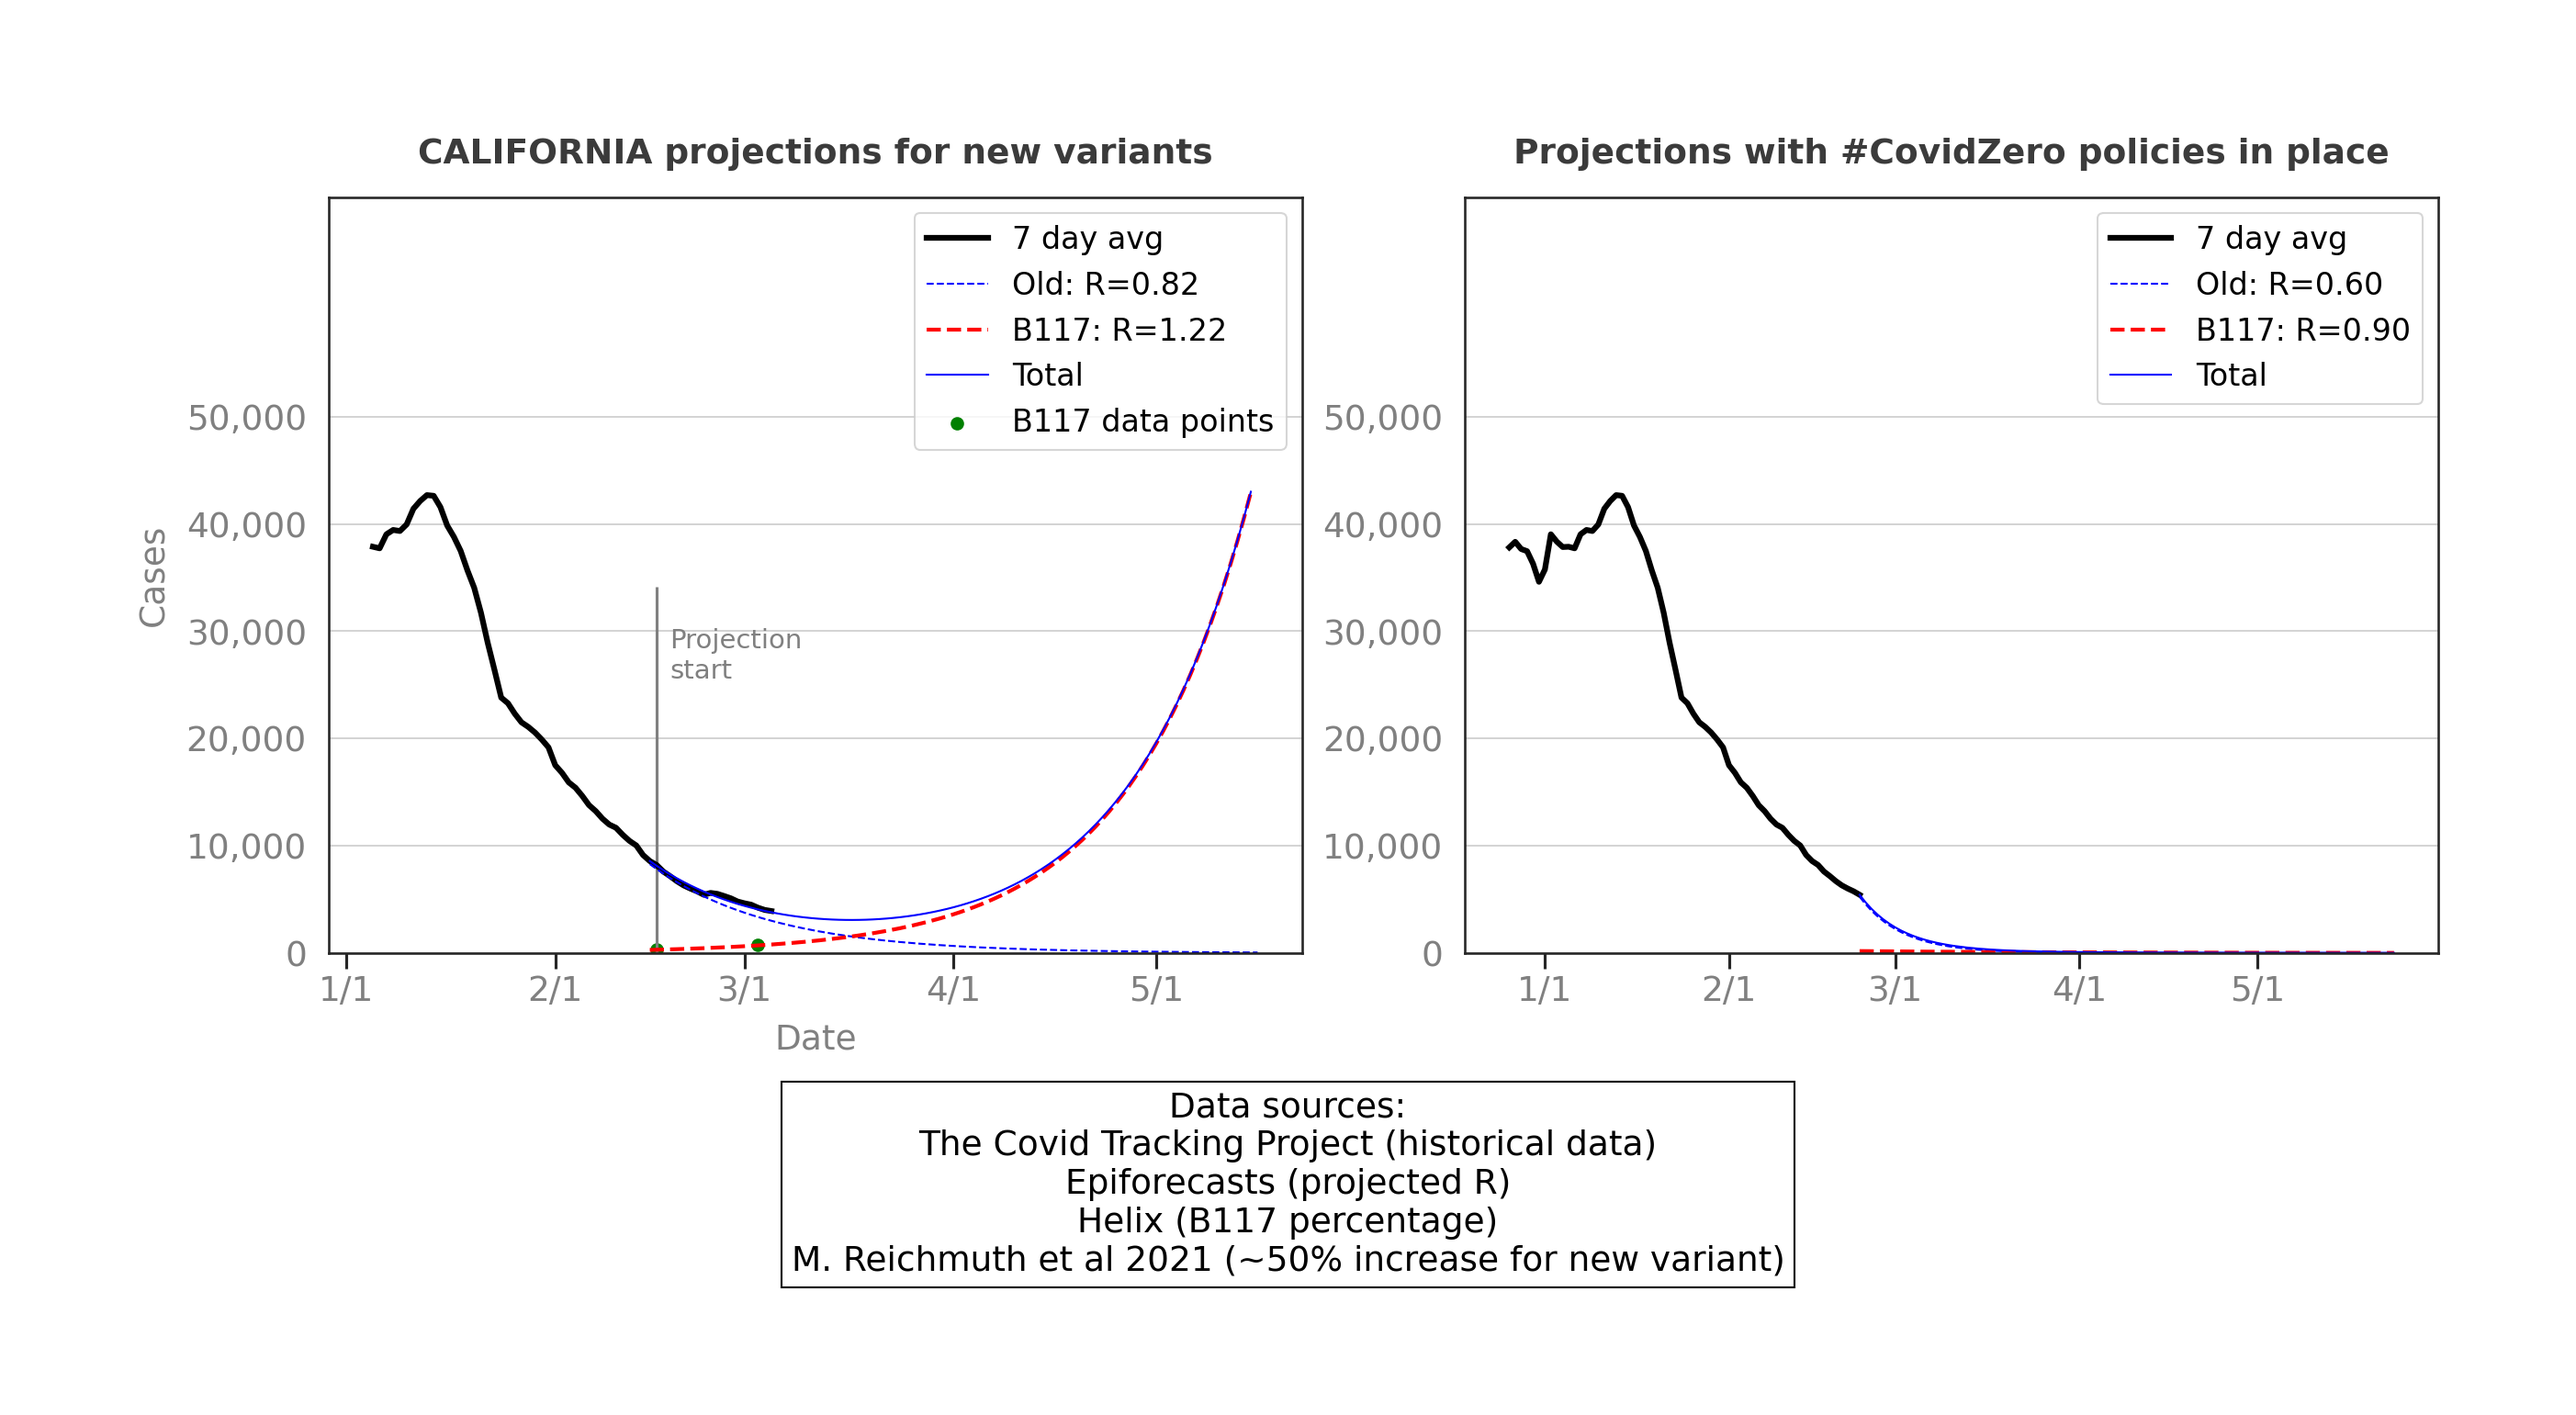
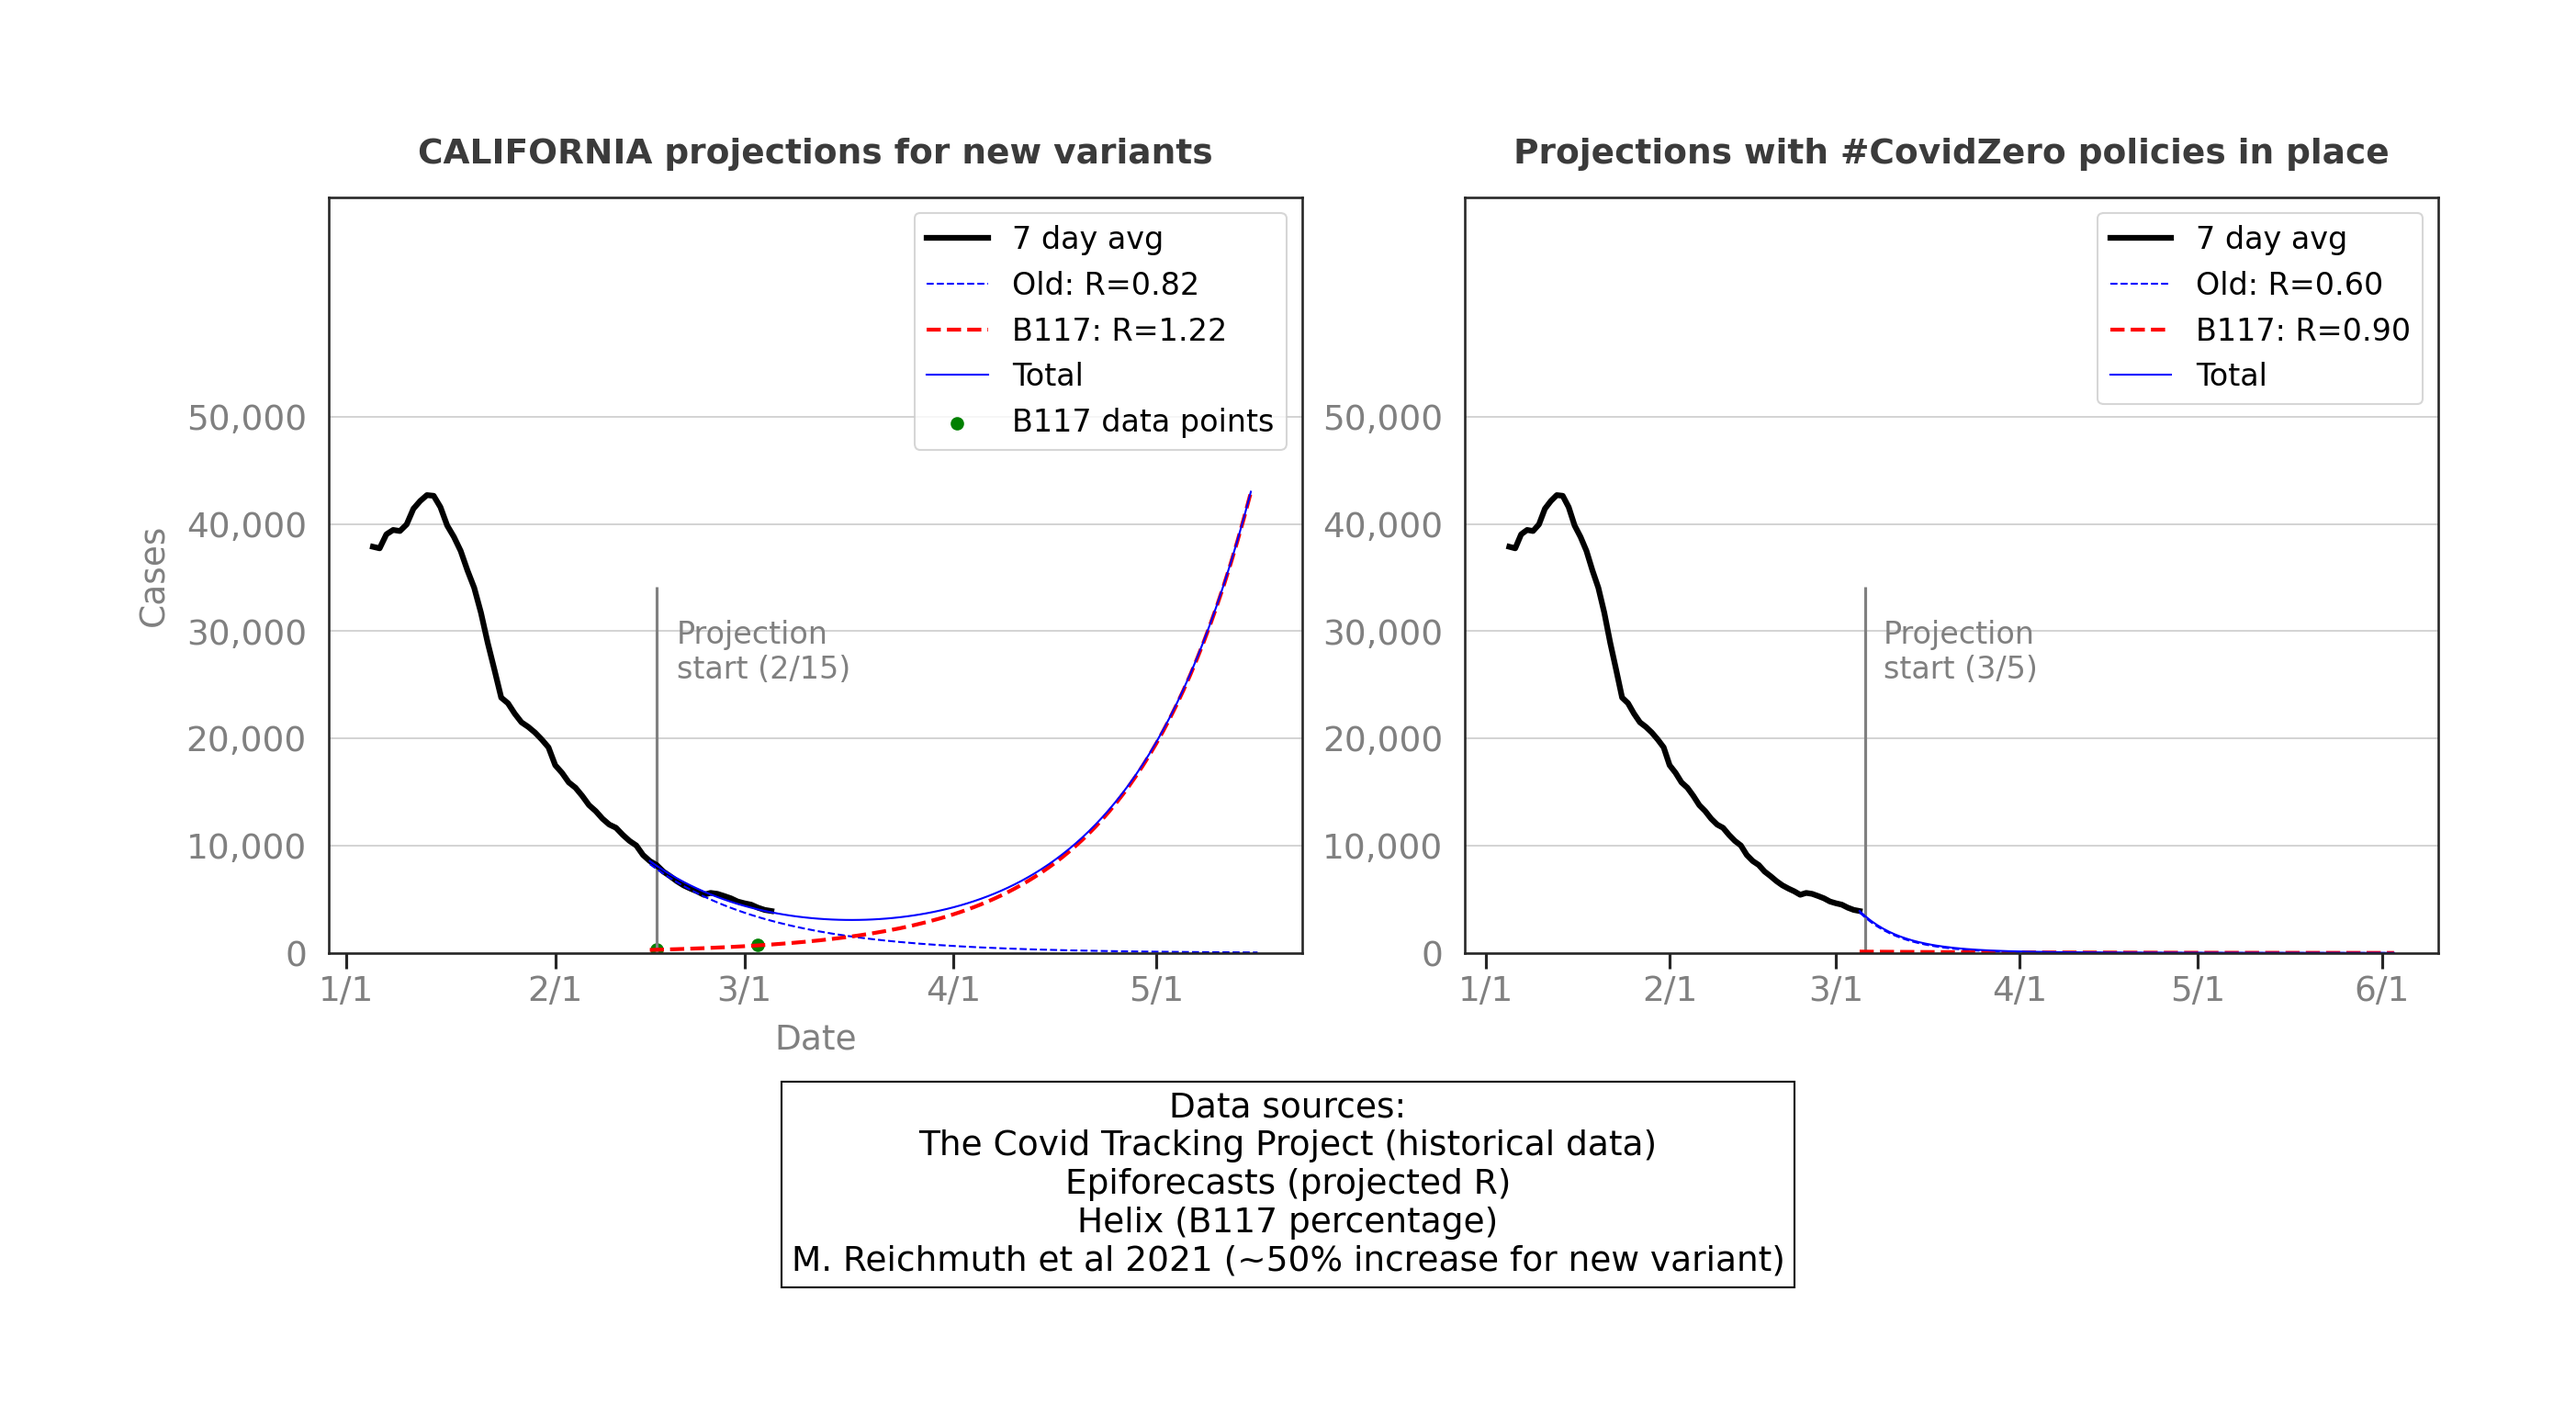
changes to projection start label

diff --git a/new_variant_estimate.py b/new_variant_estimate.py
@@ -207,8 +207,9 @@ def makeSubChart(df_historical, df_r_estimates, state, R_covid, R_variant,
     if(current):
       projection_start_date = datetime.datetime(2021, 2, 15)
     else:
-      projection_start_date = datetime.datetime(2021, 2, 23)
+      projection_start_date = datetime.datetime(2021, 3, 5)
 
+    projection_start_date_str = projection_start_date.strftime("%#m/%#d")
     projection_overlap = int((historical_start_date - projection_start_date).days)
 
 
@@ -302,9 +303,9 @@ def makeSubChart(df_historical, df_r_estimates, state, R_covid, R_variant,
 
     # VERTICAL LINE FOR PROJECTION START #
 
-    if current:
-      axis.vlines(dates[n_days_data - projection_overlap], 0, 0.8*y_cutoff, color='grey')
-      axis.text(dates[n_days_data - projection_overlap + 2], 0.6*y_cutoff, "Projection\nstart", fontsize=16, color='grey')
+    #if current:
+    axis.vlines(dates[n_days_data - projection_overlap], 0, 0.8*y_cutoff, color='grey')
+    axis.text(dates[n_days_data - projection_overlap + 3], 0.6*y_cutoff, "Projection\nstart (" + projection_start_date_str + ")", fontsize=16, color='grey')
 
     # SUBPLOT TITLE#
     axis.set_title(header_text,fontsize=18, y=1.03, alpha=0.9, fontweight='bold')
